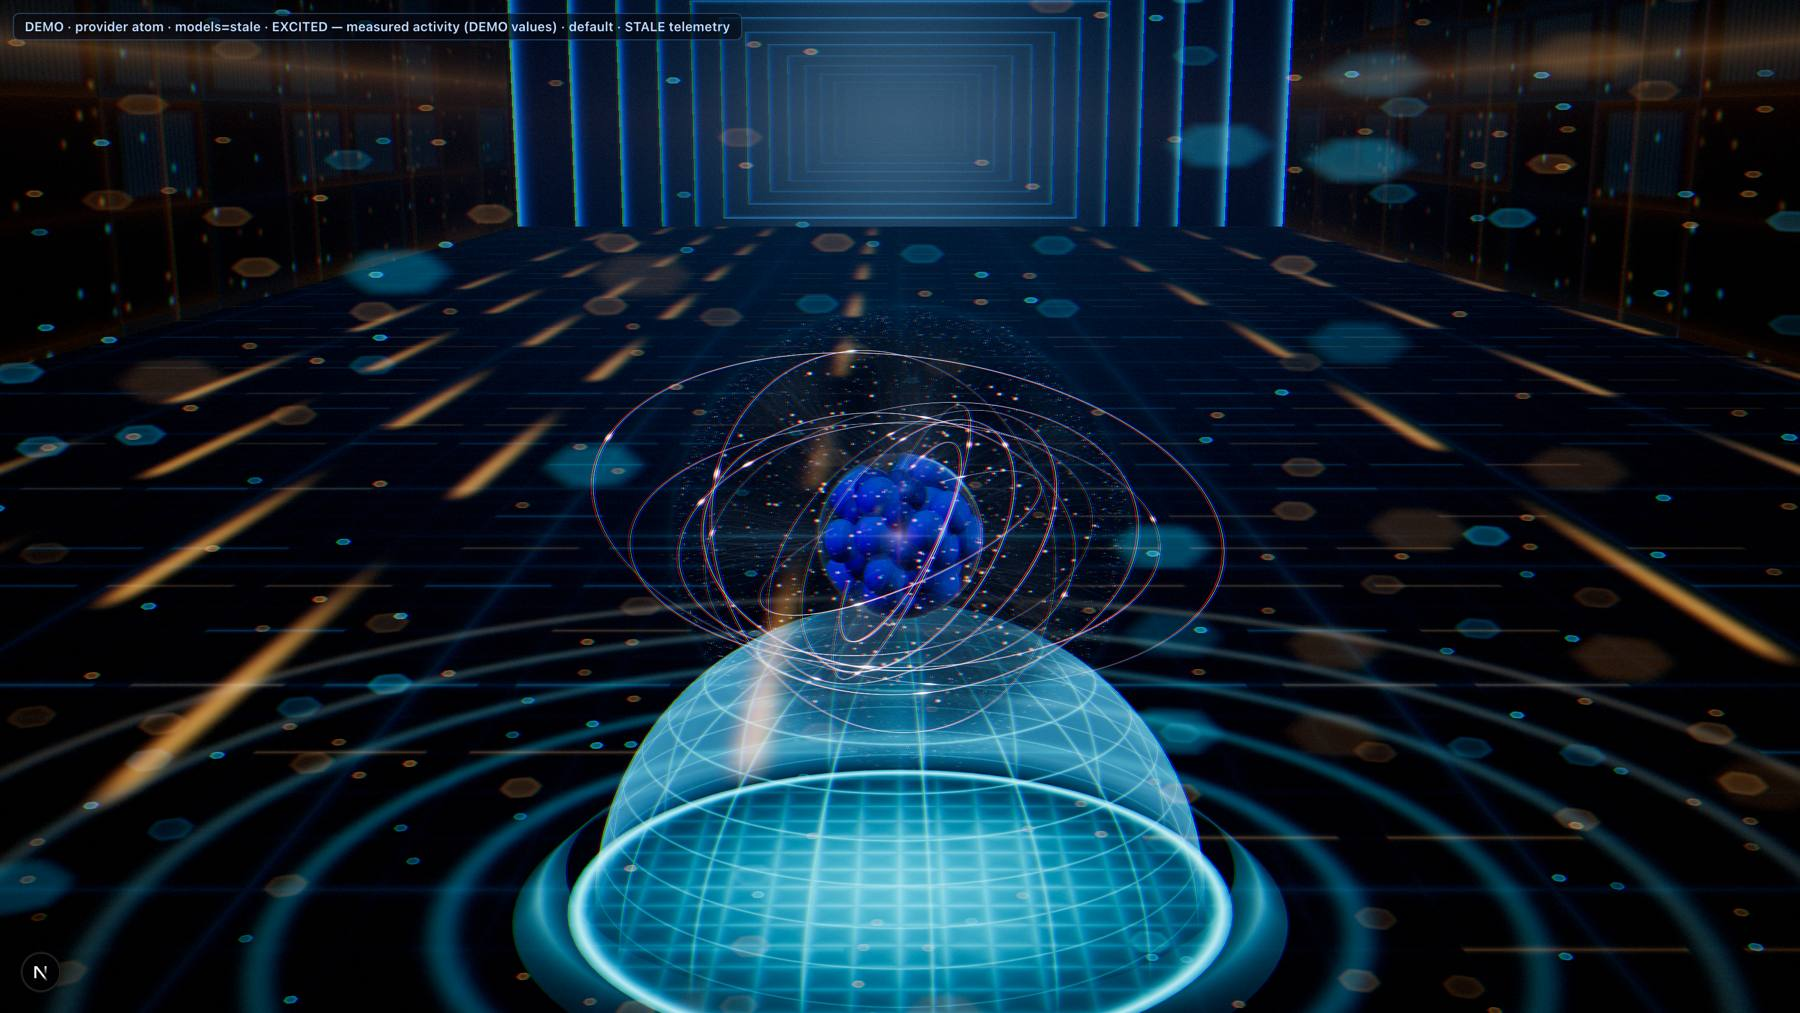
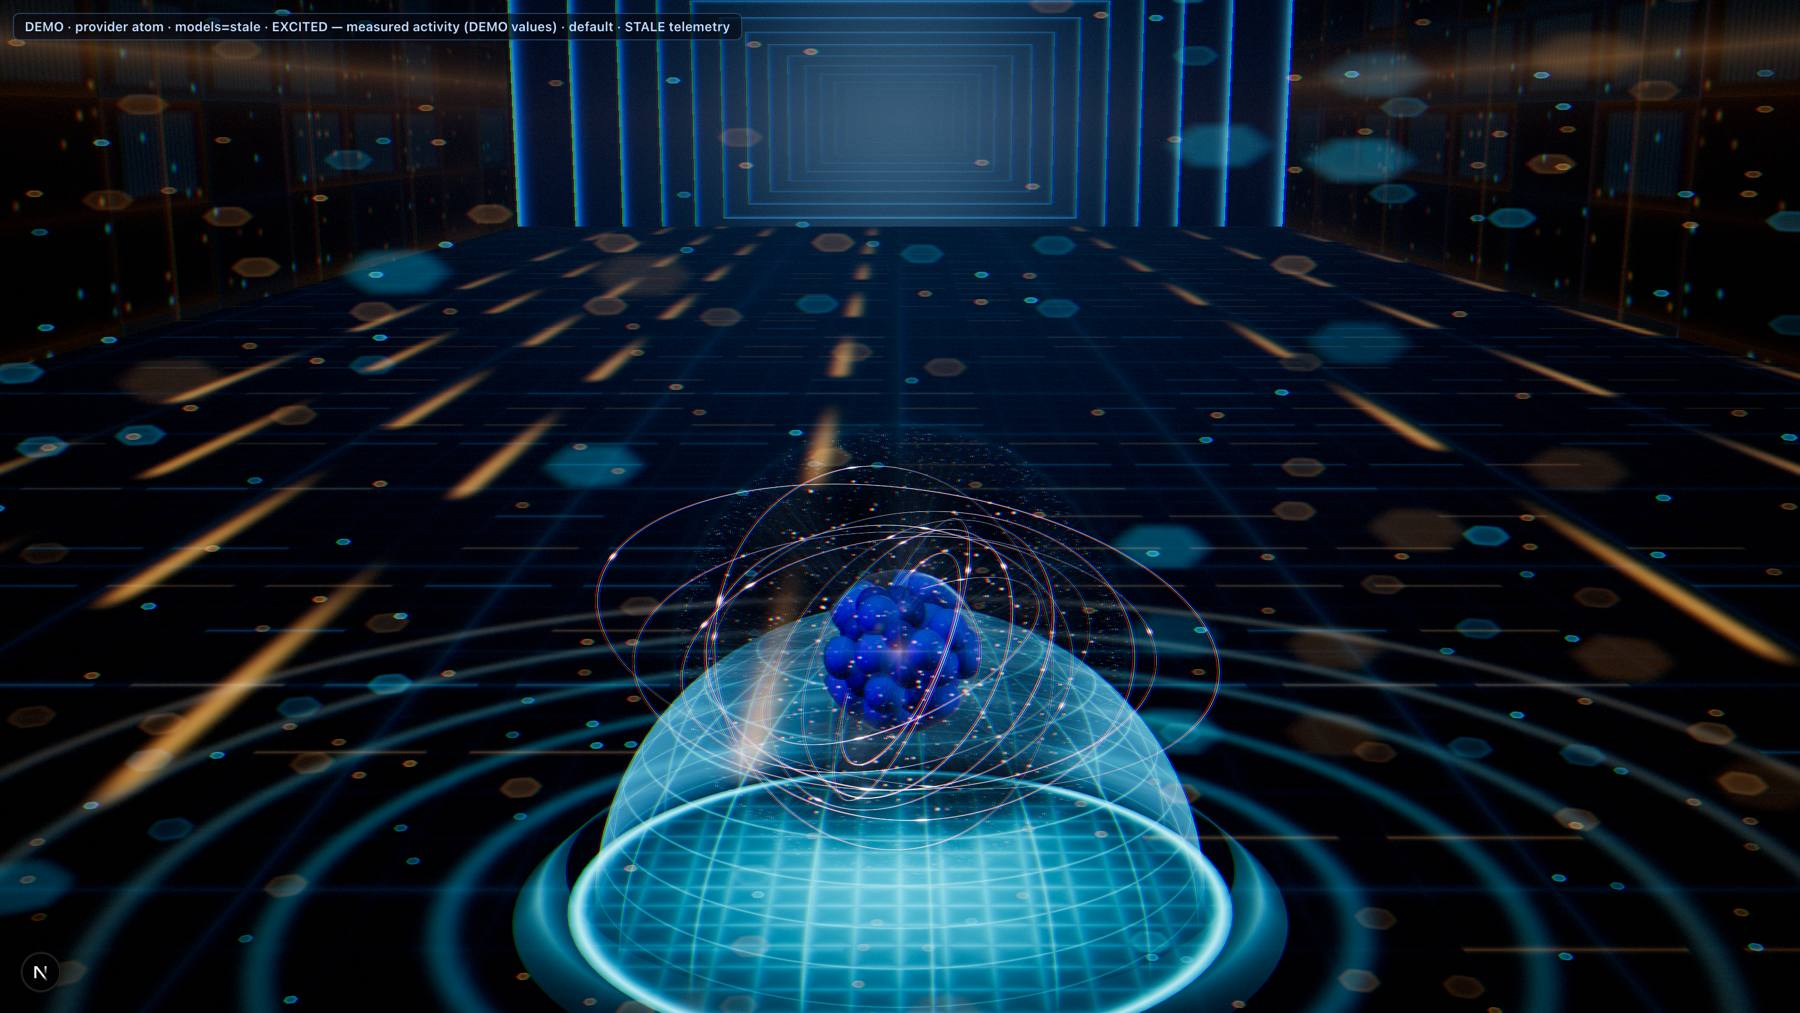
fix(atomic-topology): gate A r12 subdue crowded atoms, seat idle atom in dome
Addresses gateA-r2 round-4 pass:
1. Crowd wash: crowd factor now scales body density, far boost, core and
   strands (crowd^1.4); default/close (crowd=1) unchanged.
2. Idle atom sinks up to 28 units into its dome, smoothly with energy.
3. GATE_A.md round 12 states row-4 score explicitly.
Ran: node --import tsx/esm --test tests/unit/atomic-topology/*.test.ts:
437 tests, 436 pass, 0 fail, 1 skipped; typecheck:core 0 atomic-topology
errors; lint 7 pre-existing errors outside plugin; 21 captures ok (M5 Max,
headed Chrome, WebGPU apple/metal-3, WebGL2 fallback). Uncapped perf not
re-measured this round.

Changed region(s): [[0.3111, 0.3366, 0.6844, 0.8569], [0.3422, 0.3978, 0.3733, 0.4284]]

diff --git a/src/plugins/atomic-topology/scene/rt/rtAtom.ts b/src/plugins/atomic-topology/scene/rt/rtAtom.ts
@@ -20,7 +20,7 @@ import {
 } from "three/webgpu";
 import { abs, exp, float, length, smoothstep, uniform, uv, vec3, vec4 } from "three/tsl";
 import { fnv1a } from "../cloudShells";
-import type { EnergyState } from "../energyState";
+import { CLOUD_RADIUS_MIN, type EnergyState } from "../energyState";
 import { desaturateLinear, hexToLinear, packNucleus, type PackedNucleus } from "../nucleonPack";
 import { orbitalLayout, orbitWires, type Orbital, type OrbitWire } from "../orbitalDensity";
 import {
@@ -49,6 +49,9 @@ import {
 } from "../shaders/plasmaStrands";
 import { activeStrandFraction } from "../strandField";
 import { FLOOR_Y } from "../shaders/environment";
+
+/** World units an idle (tightest) atom sinks into its dome. */
+const IDLE_SEAT_DROP = 28;
 import { createRtRegistry, type RtRegistry } from "./rtRegistry";
 
 export interface RtAtomOptions {
@@ -445,9 +448,15 @@ export function createRtAtom(
       orbitalWeights: orbitals.map((o) => o.weight),
       phase: f.phase,
     });
-    // Seat the (smaller, idle) cloud on its pedestal: the full-size cloud's base
-    // is the reference, so a tightened cloud drops by the radius it gave up.
-    group.position.y = seatBaseY - (CLOUD_BOUND_RADIUS - params.cloudRadius);
+    // Idle atoms settle INTO the glass dome (apex ~ FLOOR_Y + 44): the drop grows
+    // smoothly with the radius given up, full at the tightest cloud (CLOUD_RADIUS_MIN),
+    // so the nucleus sits inside the glass with the cloud base on the pedestal.
+    const settle = Math.min(
+      1,
+      Math.max(0, CLOUD_BOUND_RADIUS - params.cloudRadius) /
+        (CLOUD_BOUND_RADIUS * (1 - CLOUD_RADIUS_MIN))
+    );
+    group.position.y = seatBaseY - settle * IDLE_SEAT_DROP;
     group.updateMatrixWorld(true);
     group.getWorldPosition(worldCenter);
     f.camera.matrixWorld.extractBasis(camRight, camUp, tmp);
@@ -493,6 +502,7 @@ export function createRtAtom(
       (u.quadHalf as any).value = half;
       (u.cloudRadius as any).value = cr;
       (u.far as any).value = farK;
+      (u.crowd as any).value = crowd;
       (u.energy.value as Vector3).set(params.excitation, params.saturation, params.brightness);
       (u.phase as any).value = params.phase;
       // Absorbing plasma body thins out in the low-energy (idle) state so it
@@ -542,7 +552,7 @@ export function createRtAtom(
     (strandU.center.value as Vector3).copy(worldCenter);
     (strandU.cloudR as any).value = cr;
     (strandU.far as any).value = farK;
-    (strandU.crowd as any).value = crowd;
+    (strandU.crowd as any).value = Math.pow(crowd, 1.4);
     (strandU.rootR as any).value = Math.min(0.4, (nucExtent * 0.8) / cr);
     (strandU.pxScale as any).value = pxScale;
     (strandU.energy.value as Vector3).set(params.excitation, params.saturation, params.brightness);

diff --git a/src/plugins/atomic-topology/scene/shaders/atomImpostor.ts b/src/plugins/atomic-topology/scene/shaders/atomImpostor.ts
@@ -174,6 +174,8 @@ export interface AtomUniforms {
   coreColor: ReturnType<typeof uniform>;
   /** 0 = close, 1 = default distance and beyond (distance-aware cloud density). */
   far: ReturnType<typeof uniform>;
+  /** Projected-size overdraw normaliser: 1 at the default view, <1 when small/crowded. */
+  crowd: ReturnType<typeof uniform>;
   /** x excitation, y saturation, z brightness */
   energy: ReturnType<typeof uniform>;
   phase: ReturnType<typeof uniform>;
@@ -220,6 +222,7 @@ export function createAtomUniforms(): AtomUniforms {
     ],
     coreColor: uniform(new Vector3(0.8, 0.6, 1)),
     far: uniform(0),
+    crowd: uniform(1),
     energy: uniform(new Vector3(0.12, 0.35, 0.35)),
     phase: uniform(0),
     steps: uniform(96, "int"),
@@ -409,6 +412,7 @@ export function createAtomMaterial(u: AtomUniforms): MeshBasicNodeMaterial {
       .add(0.75);
     const shell = exp(pow(r.sub(0.55).div(0.36), 2).negate());
     const edgeR = u.reach as any;
+    const crowdK = u.crowd as any;
     const interior = float(1).sub(smoothstep(edgeR.mul(0.78), edgeR.mul(0.98), r));
     const bodyD = lobeSum
       .mul(shell)
@@ -418,11 +422,12 @@ export function createAtomMaterial(u: AtomUniforms): MeshBasicNodeMaterial {
       // Inner plume: dense and bright near the nucleus, thinning outward.
       .mul(mix(float(1.9), float(0.55), smoothstep(0.08, 0.7, r)))
       .mul(float(0.5).add(excitation.mul(0.5)))
-      .mul((u.far as any).mul(1.9).add(1))
+      .mul((u.far as any).mul(1.9).mul(crowdK.mul(crowdK)).add(1))
+      .mul(crowdK.mul(0.5).add(0.5))
       .mul(0.45);
     // Hot core plasma near the nucleus.
     const core = exp(r.mul(r).mul(-90))
-      .mul(3.2)
+      .mul(crowdK.mul(0.45).add(0.55).mul(3.2))
       .add(exp(r.mul(r).mul(-14)).mul(0.25));
     // Faint, churned rim glow (the fine sparkly fringe is instanced geometry).
     const rimBand = exp(pow(r.sub(edgeR.mul(0.84)).div(0.06), 2).negate())

diff --git a/OR_ATOM_010_RAYTRACED/GATE_A.md b/OR_ATOM_010_RAYTRACED/GATE_A.md
@@ -55,6 +55,13 @@ Scorecard, round 11. These are self-scored on the r11 images, worst of default a
 
 Commands run (round 11, from the worktree): see the commit message.
 
+## Round 12: crowd wash and idle seating (gateA-r2 round-4 pass, operator item 11)
+
+1. Crowd wash: the projected-size `crowd` factor (1 at the approved default and close views, so those are mathematically unchanged) now also scales the ray-marched body density (`0.5 + 0.5*crowd`), its far boost (`*crowd^2`) and the hot core (`0.55 + 0.45*crowd`), and strands/motes use `crowd^1.4`. The curve is smooth, no steps.
+2. Idle seating: the old drop was only `R - cloudRadius` (~10 units), leaving the nucleus on the dome apex. The group now sinks by up to 28 units, scaled smoothly by the radius given up (full at `CLOUD_RADIUS_MIN`), so the idle nucleus sits inside the glass. Excited atoms are unchanged.
+3. Recaptured all 19 conditions plus `gateA-count20` / `gateA-count32` on the M5 Max (headed Chrome, WebGPU apple/metal-3, WebGL2 separately); side-bys regenerated. count20/count32 bodies now read deep violet/magenta with a cyan rim, no pale pink-white. Uncapped frame times were NOT re-measured this round; the change only removes shading work.
+4. Self-score, stated explicitly: row 4 (lighting/bloom) is 4 for single, pair, close, count20 and count32 on these captures. The 32-atom p95/p99 tail remains Gate B task C7a.
+
 ## Round 7: changes against gateA-r2 (r6 review)
 
 1. Silhouette and cyan rim: non-loose strands now reach 0.8-1.0 of the cloud with a bright HDR cyan tip cap (tip fade 80% -> 25%); loose strands 22% -> 10%; petal bundles tighter; petal mask sharper with floor 0.05 -> 0.015 (darker voids); sparkles 1400 -> 3400, rim sparkles at 0.8-1.0 radius, brighter (x1.5).
